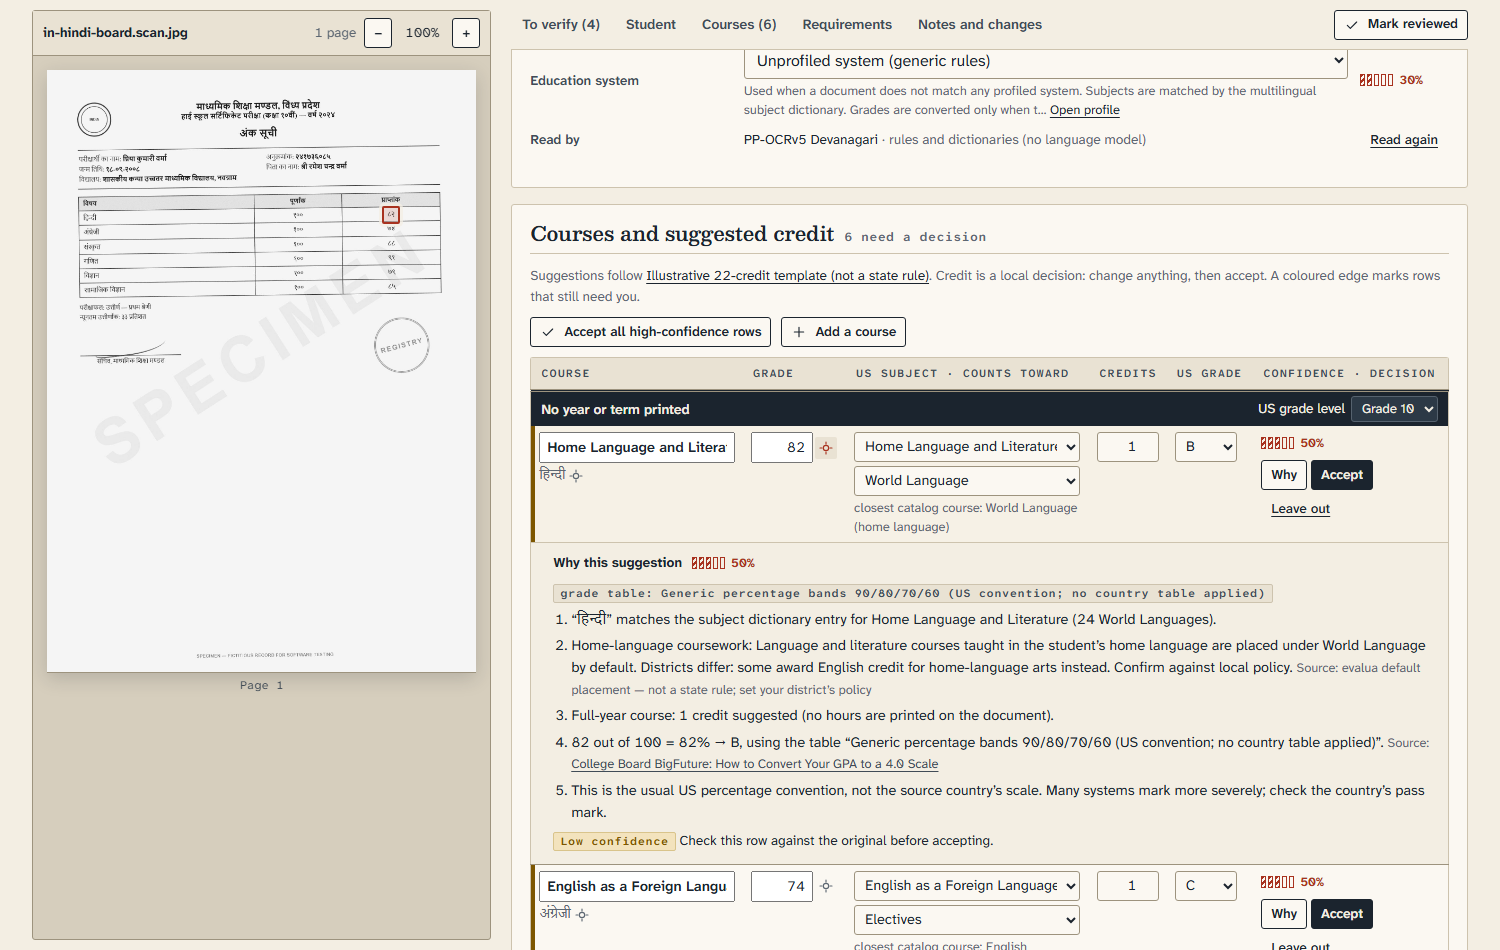
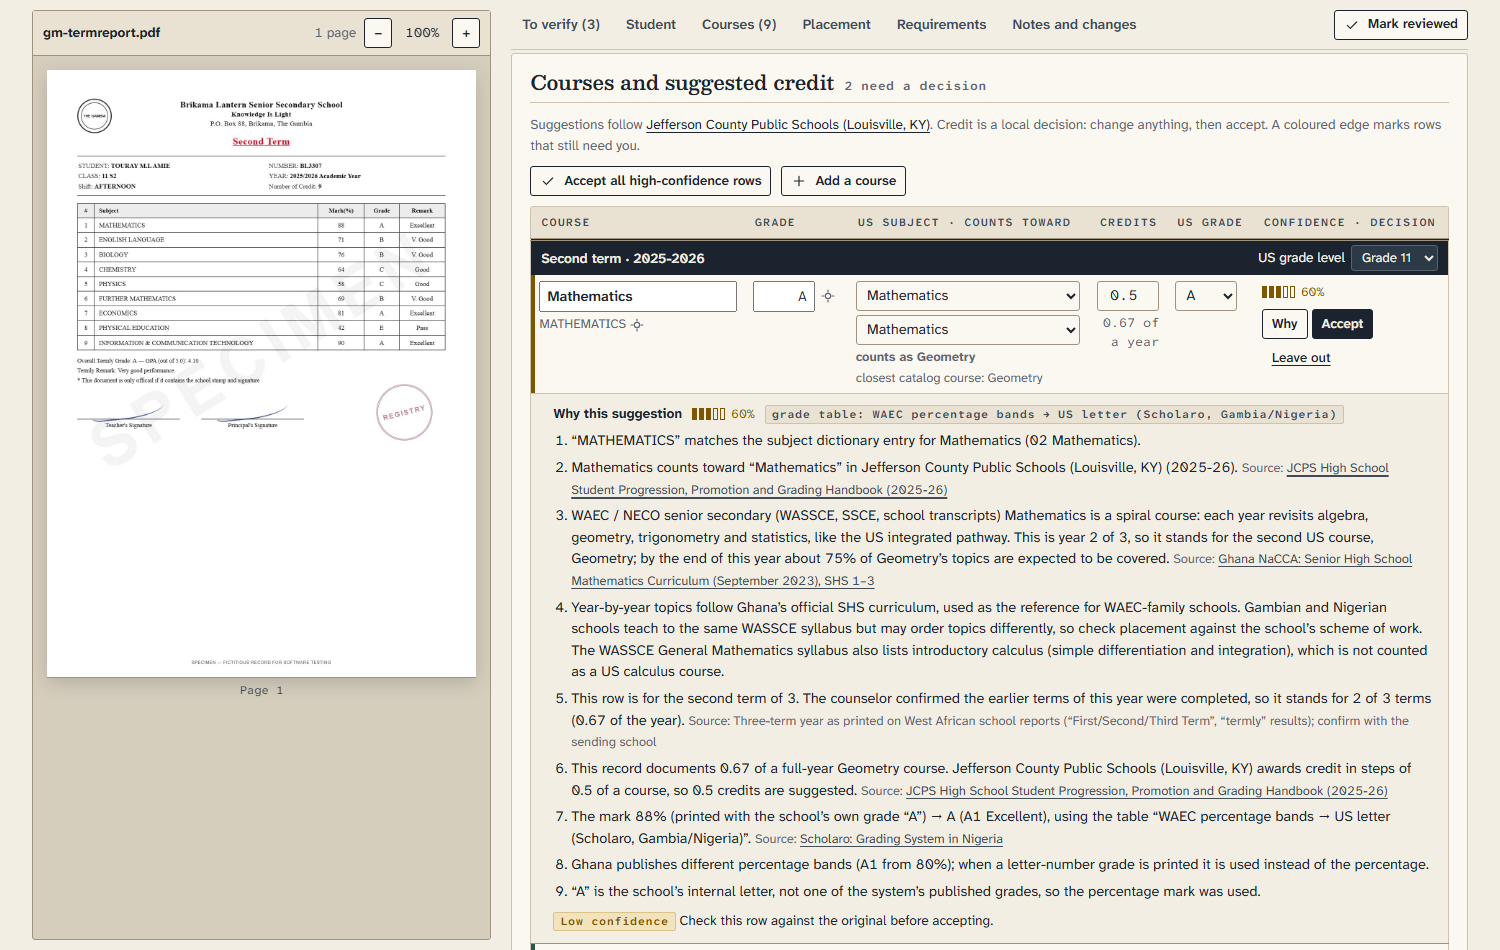
README screenshots: the fictitious Gambian term report at JCPS, with credit reasoning and placement

diff --git a/tools/eval/hero.ts b/tools/eval/hero.ts
@@ -1,0 +1,40 @@
+// Takes the README screenshots from fictitious records only.
+//   npm run build && npx tsx tools/eval/hero.ts [--base <url>] [--out docs/screenshots]
+// review.png: the Gambian term report (fake) evaluated at JCPS, with one suggestion's reasoning open,
+// beside the original; placement.png: the placement panel for the same case.
+import path from 'node:path';
+import { chromium } from 'playwright';
+
+const args = process.argv.slice(2);
+const BASE = args.includes('--base') ? args[args.indexOf('--base') + 1] : 'http://localhost:4173';
+const OUT = args.includes('--out') ? args[args.indexOf('--out') + 1] : 'docs/screenshots';
+const FILE = path.resolve('fixtures/fake/gm-termreport.pdf');
+
+const browser = await chromium.launch();
+const page = await (await browser.newContext({ viewport: { width: 1500, height: 950 }, deviceScaleFactor: 1 })).newPage();
+await page.goto(`${BASE}/#/`);
+await page.waitForSelector('input[type=file]', { state: 'attached' });
+await page.setInputFiles('input[type=file]', FILE);
+await page.waitForURL(/#\/case\//);
+await page.waitForSelector('#courses-h', { timeout: 180_000 });
+const district = await page.locator('.case-head select').first().evaluate((s) => (s as HTMLSelectElement).selectedOptions[0]?.textContent ?? '');
+if (!/Jefferson/.test(district)) throw new Error(`case is not at JCPS: ${district}`);
+
+// The counselor has confirmed the earlier terms of the year, so the second-term report counts as two thirds of it.
+await page.locator('#placement input[type=checkbox]').first().check();
+await page.waitForTimeout(300);
+// Open the reasoning for Mathematics, the row whose credit depends on the term share and the course sequence.
+const maths = page.locator('table.courses tbody tr', { has: page.locator('input.name-en[value="Mathematics"]') }).first();
+await maths.locator('button:has-text("Why")').click();
+await page.waitForTimeout(300);
+await page.evaluate(() => {
+  const h = document.querySelector('#courses-h')!;
+  window.scrollTo(0, h.getBoundingClientRect().top + window.scrollY - 70);
+});
+await page.waitForTimeout(300);
+await page.screenshot({ path: path.join(OUT, 'review.png') });
+
+await page.locator('#placement').scrollIntoViewIfNeeded();
+await page.locator('#placement').screenshot({ path: path.join(OUT, 'placement.png') });
+console.log(`wrote ${OUT}/review.png and ${OUT}/placement.png (${district.trim()})`);
+await browser.close();

diff --git a/README.md b/README.md
@@ -6,9 +6,11 @@ Helps US school counselors and registrars evaluate transcripts from internationa
 
 A counselor opens a transcript in any format and language. evalua reads it, structures it, maps each course to the receiving district's graduation requirements, and suggests credit. Every suggestion shows what it matched, why, how confident it is, and the source it relied on, so the counselor can confirm or change it. Credit for coursework done abroad is local policy, so evalua suggests and a person decides.
 
-![The review workspace: the original document beside the extracted courses, with the reasoning for one suggestion open](docs/screenshots/review.png)
+![A fictitious Gambian second-term report evaluated at Jefferson County Public Schools: the original beside the courses read from it, with the reasoning for Mathematics open — two of three terms documented, counted as Geometry, half a credit](docs/screenshots/review.png)
 
-More screenshots: [case list](docs/screenshots/cases.png), [report](docs/screenshots/report.png). All data shown is fictitious.
+![Placement for the same record: which US mathematics courses its system is expected to have covered by the second term of grade 11, and where to continue](docs/screenshots/placement.png)
+
+More screenshots: [case list](docs/screenshots/cases.png), [report](docs/screenshots/report.png). All data shown is fictitious. `npx tsx tools/eval/hero.ts` retakes the two above.
 
 ## What it does
 
